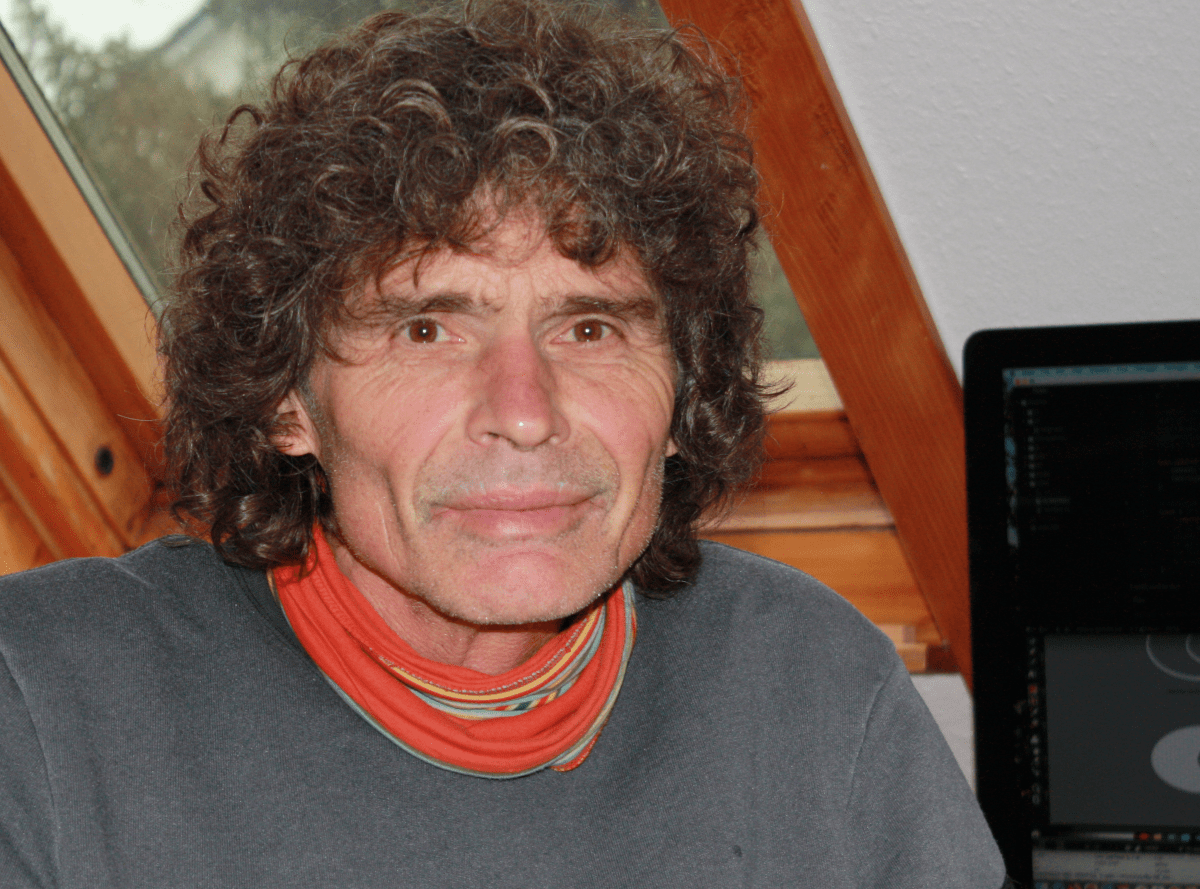
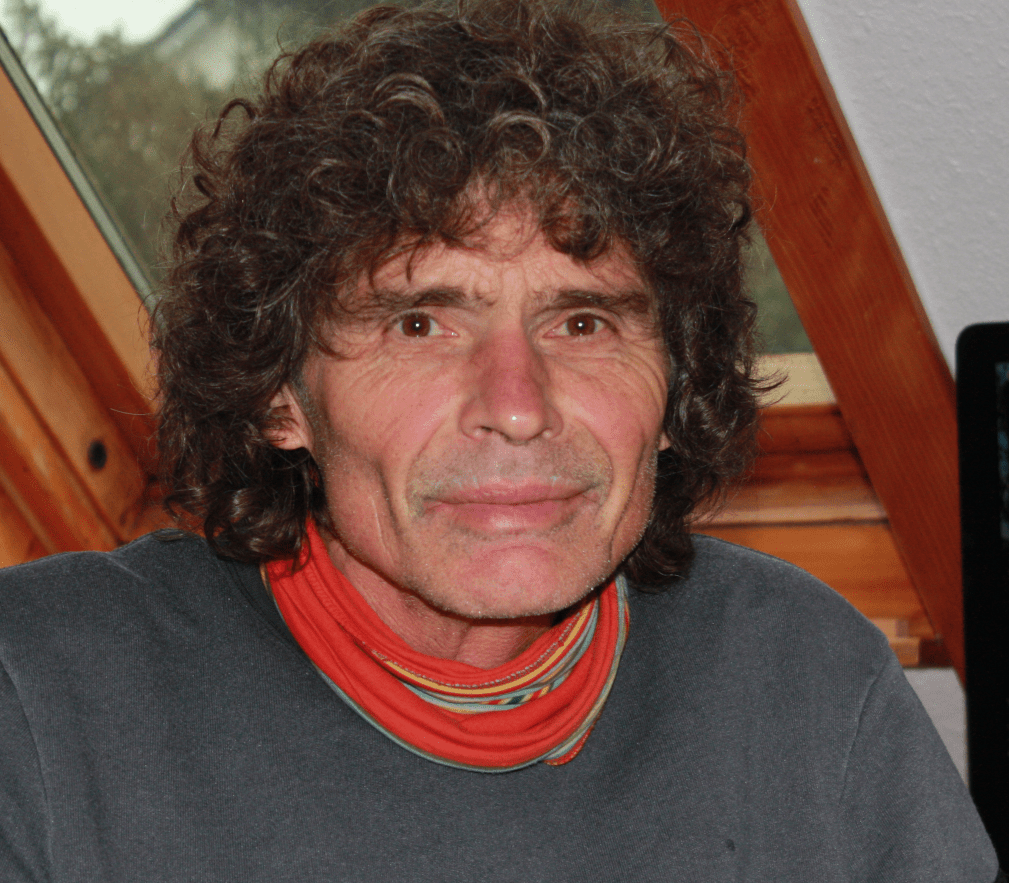
added light gray background color to all projects (to emphasize them and to separate them from text flow); modified slightly the me image (removed part of the screen on the right); put symbol size in a class since it is valid for all symbols; modified first paragraph of section About AGAIN

diff --git a/ibsoftsys/styles/je-ibsoftsys.css b/ibsoftsys/styles/je-ibsoftsys.css
@@ -10,7 +10,7 @@ Inspired by: "Constant text in CSS". https://www.sitepoint.com/community/t/const
 State of mind on August 25, 2021.
 */
 span.updated-on:before {
-    content:'Feb 13 18:05:09 CET 2022';
+    content:'Feb 14 19:06:30 CET 2022';
     font-size: inherit;
 }
 
@@ -341,6 +341,11 @@ h1, h2, h3, h4, h5, h6 {
   min-height:  55%;
 } */
 
+.symbol-size {
+    width: auto;  /* measurements of all symbols so they appear similar ... */
+    height: 230px;  /* ... in size. State of mind on February 14, 2022 */
+}
+
 /* iPhone plus AI Card Player screenshot */
 .symbol-smartphone-app {
     display: block;
@@ -348,9 +353,6 @@ h1, h2, h3, h4, h5, h6 {
     margin-right: auto;
     /* width: auto; */ /* if you set height, width: 100% seems NOT to work on iOS ... it drives me crazy. JE 13Sep21-1441 */
     /*height: 280px;*/ /* Reasoning: image should fit on iPhone 6 screen in landscape mode (367 px) */
-
-    width: auto;  /* measurements so all first four  symbols appear similar ... */
-    height: 240px;  /* ... in size. State of mind on January 27, 2022 */
 
     /* background-color: bisque; */
     /* background-color: #fafafa; */
@@ -364,9 +366,6 @@ h1, h2, h3, h4, h5, h6 {
     margin-right: auto;
     /* width: auto;*/ /* if you set height, width: 100% seems NOT to work on iOS ... it drives me crazy. JE 13Sep21-1441 */
     /*height: 270px; *//* Reasoning: image should fit on iPhone 6 screen in landscape mode (367 px) */
-
-    width: auto; /* measurements so all first four  symbols appear similar ... */
-    height: 240px;  /* ... in size. State of mind on January 27, 2022 */
 
     /* width: 250px; */
     /* max-width: 100%; */
@@ -387,8 +386,8 @@ h1, h2, h3, h4, h5, h6 {
     /* height: 100%; */ /* use 100% instead of auto, because auto seems not to work on iOS for some reason (my iPhone) JE 13Sep21-1437 */
     /* padding: 18px; */
 
-    width: auto; /* measurements so all first four  symbols appear similar ... */
-    height: 240px;  /* ... in size. Needed to reduce height to 250 px so that it fits in iPhone 5/SE (dimension 320 x 568) State of mind on November, 12 2021
+    /*width: auto;*/ /* measurements so all first four  symbols appear similar ... */
+    /*height: 240px; */ /* ... in size. Needed to reduce height to 250 px so that it fits in iPhone 5/SE (dimension 320 x 568) State of mind on November, 12 2021
     UPDATE All heights are now 240px. State of mind on January 27, 2022 */
 
     /* background-color: #fafafa; */
@@ -401,11 +400,6 @@ h1, h2, h3, h4, h5, h6 {
     margin-left: auto;
     margin-right: auto;
 
-    width: auto; /* measurements so all first four  symbols appear similar ... */
-    height: 240px;  /* ... in size. State of mind on January 27, 2022. */
-    /* background-color: bisque; */
-    /* background-color: #fafafa; */
-
     /* box-shadow: 0px 8px 16px 0 rgb(0 0 0 / 20%); */
 }
 
@@ -413,9 +407,6 @@ h1, h2, h3, h4, h5, h6 {
     display: block;
     margin-left: auto;
     margin-right: auto;
-
-    width: auto;/* measurements so all first four  symbols appear similar ... */
-    height: 240px; /* ... in size. State of mind on January 27, 2022. */
 
     /* background-color: #fafafa; */
 
@@ -430,8 +421,10 @@ h1, h2, h3, h4, h5, h6 {
 
   margin-left: auto;  /* allign row ... */
   margin-right: auto; /* ... horizontally */
+}
 
-  background-color: rgb(251, 251, 251); /* EXPERIMENT I think it looks not bad if the projects especially the images have a little different background than the text, actually there is in this part of the section no text at all (the background should spread all to the left and right side on bigger screens, which is fortunately given by design (spreads only to the boundary of flex-container)). And the projects need special attention which they get by the different background, aren't they? State of mind on February 13, 2022.*/
+.projects-background {
+    background-color: rgb(250, 250, 250); /* EXPERIMENT I think it looks not bad if the projects especially the images have a little different background than the text, actually there is in this part of the section no text at all (the background should spread all to the left and right side on bigger screens, which is fortunately given by design (spreads only to the boundary of flex-container)). And the projects need special attention which they get by the different background, aren't they? State of mind on February 13, 2022.*/
 }
 
 .flex-item {
@@ -458,10 +451,6 @@ h1, h2, h3, h4, h5, h6 {
 
 .flex-container-bottom {
     max-width: 36em; /* as wide as paragraph */
-}
-
-.flex-item-bottom {
-
 }
 
 .box {
@@ -676,7 +665,7 @@ p.ibsoftsys-slogan {
 
 .section-intro {
     padding-top: 32px;
-    padding-bottom: 32px;
+    padding-bottom: 18px;
     padding-left: 32px;
     padding-right: 32px;
 
@@ -685,7 +674,7 @@ p.ibsoftsys-slogan {
 }
 
 .image-plus-text {
-    max-width: 70em;  /* So that image sticks out of the text if there is space but not too far away from the text (1 or 2 em maybe) ony very wide sreens (assume (1) image floats to to the left relativ to text; (2) text is limited to max-width: 36em). Looks better apart from the fact that it seems more popular or common. The unit 'em' is sub-optimal because the distance to text becaomes too wide when user uses hige font-sizes AND the screen is very wide. Thus, it is not perfect but I leave it with flaw for now. State of mind on February 12, 2022. */
+    max-width: 1280px;  /* So that image sticks out of the text if there is space to the left ony wide screens, but not too far away from the text (maybe 18px)  (assume (1) image floats to to the left relativ to text; (2) text is limited to max-width: 36em). It looks better as image is embedded in the text statically. I saw this kind of style on other webpages, where the image of the person is out of the text on the left side. State of mind on February 14, 2022. */
 
     margin-right: auto;
     margin-left: auto;
@@ -698,7 +687,7 @@ p.ibsoftsys-slogan {
 #identity-card {
     position: relative;
     float: left;
-    width: 240px;  /* WITH Snoopy: 290px ? */ /* 240px gives the text (assume font-size = 14px) some space to the right and left */
+    width: 230px;  /* WITH Snoopy: 290px ? */ /* 240px gives the text (assume font-size = 14px) some space to the right and left */
     height: 265px; /* WITH only me: 265px; WITH Snoopy: 305px*/
 
     overflow: hidden;
@@ -706,7 +695,7 @@ p.ibsoftsys-slogan {
     margin-top: 0.4em; /* allighs approximately with text */
     margin-left: 24px; /* keep space to text (if floating to the right) */
     margin-right: 16px;
-    margin-bottom: 16px;
+    margin-bottom: 12px;
 
     box-shadow: 0 4px 8px 0 rgb(0 0 0 / 10%);
 
@@ -726,14 +715,20 @@ p.ibsoftsys-slogan {
 
 .identity-card-text {
   position: relative;
-  top: 180px; /* WITH only me: 180px; WITH Snoopy: 229px */
-  height: 60px;
+  top: 185px; /* WITH only me: 180px; WITH Snoopy: 229px */
+  height: 65px;
   width: inherit;
   /* padding: 8px 0px 8px 0px; */
   background-color: rgb(250, 250, 250);
   margin-top: 16px;
   border-bottom-right-radius: inherit;
   border-bottom-left-radius: inherit;
+}
+
+.identity-card-text p {
+    font-size: 16px;
+    padding-top: 8px;
+    padding-bottom: 0;
 }
 
 #identity-card img {
@@ -1249,17 +1244,4 @@ State of mind on August 25, 2021.
         margin-left: auto;  /* center image (no text around) */
         margin-right: auto;
     }
-}
-
-@media only screen and (max-width: 350px) {  /* value determined by experiment to avoid words only on the right of the image */
-    /* NOTE:  ALL VALUES very experimental! */
-    #identity-card  {  /* reduce size of card because it exceeds screen soon */
-        width:250px;
-        height:263px; */ keep proportion of original size (w/h = w=290px/305px) */
-    }
-
-    .identity-card-text { /* ... need to adjust position of text, too */
-      height: 57px;
-      top: 180px; /* approximately: old value minus (new height - old height) of card */
-  }
 }

diff --git a/ibsoftsys/index.html b/ibsoftsys/index.html
@@ -157,7 +157,7 @@
             </div> -->
 
 
-            <p>Willkommen! Mein Name ist Jürgen Ehret. Das <em>Ingenieurbüro für Soft&shy;ware&shy;sys&shy;teme</em> bietet Ihnen individuelle, maßgeschneiderte Softwareentwicklung für Ihr Projekt, die auf meiner internationalen Erfahrung und Expertise basiert.</p>
+            <p>Willkommen! Mein Name ist Jürgen Ehret. Das <em>Ingenieurbüro für Soft&shy;ware&shy;sys&shy;teme</em> bietet Ihnen individuelle, maßgeschneiderte Entwicklungsunterstützung für Ihre Softwareprojekte, die auf meiner internationalen Erfahrung und Expertise basiert.</p>
 
 
             <!--
@@ -189,8 +189,8 @@
                 <div class="identity-card-text">
                     <!-- Increased contrast between name, title, and background. August 23, 2021 -->
                     <!-- CHANGED font-size in px to avoid too big letters that do not fit in image frame (fixed width!). JE 07Oct21.  -->
-                    <p style="font-size: 16px; padding-top: 4px; padding-bottom: 4px;">Dr.-Ing. Jürgen Ehret<br>
-                    <span style="font-size: 16px; color: #777; ;">Software Engineer & Founder</span></p>
+                    <p>Dr.-Ing. Jürgen Ehret<br>
+                    <span style=" color: #777;">Software Engineer & Founder</span></p>
                 </div>
             </div>
 
@@ -289,7 +289,7 @@
   -->
 
 
-  <div class="flex-container">
+  <div class="flex-container projects-background">
       <!-- BEGIN Section I --------->
       <div class='flex-item'>
           <div class="projects-section-frame" >
@@ -304,7 +304,7 @@
               <p> Or show only one image that displays a screenshot of the created app plus a concise statement of the accomplishment. That's it. </p> -->
               <div class="box">
                   <!-- <div class="slogan"><p>Vision...</p><p>Implementierung.</p></div> -->
-                  <img onclick="overlayOn(1)" style="cursor: pointer;" class="symbol-smartphone-app" src="media/images/symbol-smartphone-app-min.png" alt="Symbol of Smartphone App" >
+                  <img onclick="overlayOn(1)" style="cursor: pointer;" class="symbol-smartphone-app symbol-size" src="media/images/symbol-smartphone-app-min.png" alt="Symbol of Smartphone App" >
               </div>
 
               <div class="overlay" id="overlay-1">
@@ -366,7 +366,7 @@
 
               <div class="box">
                   <!-- <div class="slogan"><p>Vision...</p><p>Implementierung.</p></div> -->
-                  <img onclick="overlayOn(2)" style="cursor: pointer;" class="symbol-find-contact-details" src="media/images/symbol-find-contact-details-de-min.png" alt="Symbol of Search for Contacts" >
+                  <img onclick="overlayOn(2)" style="cursor: pointer;" class="symbol-find-contact-details symbol-size" src="media/images/symbol-find-contact-details-de-min.png" alt="Symbol of Search for Contacts" >
               </div>
 
 
@@ -418,7 +418,7 @@
   </div>  <!-- flex-container -->
 
 
-  <div class="flex-container">
+  <div class="flex-container projects-background">
       <!-- BEGIN Section III --------->
       <div class='flex-item'>
           <div class="projects-section-frame">
@@ -427,7 +427,7 @@
               <!-- <p><b>Modell vernetzter Steuergeräte</b> Network of ECUs? How to symbolize it? Or should I use some other symbol/graphical representation? What about text?</p> -->
               <div class="box">
                   <!-- <div class="slogan"><p>Vision...</p><p>Implementierung.</p></div> -->
-                  <img onclick="overlayOn(3)" style="cursor: pointer;" class="symbol-model-of-distributed" src="media/images/symbol-model-of-distributed-min.svg" alt="Symbol of Model of Distributed Systems" >
+                  <img onclick="overlayOn(3)" style="cursor: pointer;" class="symbol-model-of-distributed symbol-size" src="media/images/symbol-model-of-distributed-min.svg" alt="Symbol of Model of Distributed Systems" >
               </div>
 
               <div class="overlay" id="overlay-3">
@@ -481,7 +481,7 @@
               <p>Maybe a kind of examination you will see at the doctor's office could symbolise the examination. A stethoscope around a computer will do it. You will find inspiration on the web for sure. Have fun design it with <b>Inkscape</b>! </p> -->
               <div class="box">
                   <!-- <div class="slogan"><p>Vision...</p><p>Implementierung.</p></div> -->
-                  <img onclick="overlayOn(4)" style="cursor: pointer;" class="symbol-test-software" src="media/images/symbol-test-software-min.png" alt="Symbol of Test Software Systems">
+                  <img onclick="overlayOn(4)" style="cursor: pointer;" class="symbol-test-software symbol-size" src="media/images/symbol-test-software-min.png" alt="Symbol of Test Software Systems">
               </div>
 
               <div class="overlay" id="overlay-4">
@@ -525,7 +525,7 @@
       </div> <!-- flex-item -->
   </div>  <!-- flex-container -->
 
-  <div class="flex-container">
+  <div class="flex-container projects-background">
       <!-- BEGIN Section V --------->
       <div class='flex-item'>
           <div class="projects-section-frame">
@@ -539,7 +539,7 @@
                   <!-- <div class="slogan"><p>Vision...</p><p>Implementierung.</p></div> -->
                   <!-- <img class="symbol-develop-safety-critical" src="media/images/symbol-develop-safety-critical-new-2.png" alt="Symbol of Develop Safety-Critical Systems"> -->
 
-                  <img onclick="overlayOn(5)" style="cursor: pointer;" class="symbol-develop-safety-critical" src="media/images/symbol-develop-safety-critical-min.svg" alt="Symbol Crash Test Dummy">
+                  <img onclick="overlayOn(5)" style="cursor: pointer;" class="symbol-develop-safety-critical symbol-size" src="media/images/symbol-develop-safety-critical-min.svg" alt="Symbol Crash Test Dummy">
               </div>
 
               <div class="overlay" id="overlay-5">

diff --git a/ibsoftsys/en/index.html b/ibsoftsys/en/index.html
@@ -137,7 +137,7 @@
         <!-- 21Aug2021 10:42 <br><img src="media/images/me-sun.png" class="w3-card-4 w3-round-large w3-image w3-hover-opacity-off" alt="Photo of Me" width="300">
         <p class="w3-margin-right w3-small">Dr.-Ing. Jürgen Ehret</p> -->
         <div class="image-plus-text">
-            <p>Welcome! My name is Jürgen Ehret. <em>Engineering of Software Systems</em> offers you individual, tailor-made software development for your project, which is based on my international experience and expertise.</p>
+            <p>Welcome! My name is Jürgen Ehret. <em>Engineering of Software Systems</em> offers you individual, tailor-made development support for your software projects, which is based on my international experience and expertise.</p>
 
             <!-- <p style="font-size: 16px; color: #AD1737;">Welcome! My name is Jürgen Ehret, born and raised in Freiburg, studied electrical engineering in Karlsruhe, gained extensive experience as a software engineer in Munich and in Silicon Valley, now back from the USA I founded the engineering office for software systems in Freiburg.</p> -->
 
@@ -147,8 +147,8 @@
                 <div class="identity-card-text">
                     <!-- Increased contrast between name, title, and background. August 23, 2021 -->
                     <!-- CHANGED font-size in px to avoid too big letters that do not fit in image frame (fixed width!). JE 07Oct21.  -->
-                    <p style="font-size: 16px;padding-top: 4px; padding-bottom: 4px;">Dr.-Ing. Jürgen Ehret<br>
-                    <span style="font-size: 16px; color: #777; ;">Software Engineer & Founder</span></p>
+                    <p>Dr.-Ing. Jürgen Ehret<br>
+                    <span style="color: #777;">Software Engineer & Founder</span></p>
                 </div>
             </div>
 
@@ -201,7 +201,7 @@
   </div>
 </div>
 
-  <div class="flex-container">
+  <div class="flex-container projects-background">
       <!-- BEGIN Section I -------->
       <div class='flex-item'>
           <div class="projects-section-frame" >
@@ -210,7 +210,7 @@
 
               <div class="box">
                   <!-- <div class="slogan"><p>Vision...</p><p>Implementierung.</p></div> -->
-                  <img onclick="overlayOn(1)" style="cursor: pointer;" class="symbol-smartphone-app" src="../media/images/symbol-smartphone-app-min.png" alt="Symbol of Smartphone App" >
+                  <img onclick="overlayOn(1)" style="cursor: pointer;" class="symbol-smartphone-app symbol-size" src="../media/images/symbol-smartphone-app-min.png" alt="Symbol of Smartphone App" >
               </div>
 
               <div class="overlay" id="overlay-1">
@@ -266,7 +266,7 @@
 
               <div class="box">
                   <!-- <div class="slogan"><p>Vision...</p><p>Implementierung.</p></div> -->
-                  <img onclick="overlayOn(2)" style="cursor: pointer;" class="symbol-find-contact-details" src="../media/images/symbol-find-contact-details-en-min.png" alt="Symbol of Search for Contacts" >
+                  <img onclick="overlayOn(2)" style="cursor: pointer;" class="symbol-find-contact-details symbol-size" src="../media/images/symbol-find-contact-details-en-min.png" alt="Symbol of Search for Contacts" >
               </div>
 
 
@@ -316,7 +316,7 @@
       <!-- END Section II-->
   </div>  <!-- flex-container -->
 
-  <div class="flex-container">
+  <div class="flex-container projects-background">
       <!-- BEGIN Section III --------->
       <div class='flex-item'>
           <div class="projects-section-frame">
@@ -325,7 +325,7 @@
 
               <div class="box">
                   <!-- <div class="slogan"><p>Vision...</p><p>Implementierung.</p></div> -->
-                  <img onclick="overlayOn(3)" style="cursor: pointer;" class="symbol-model-of-distributed" src="../media/images/symbol-model-of-distributed-min.svg" alt="Symbol of Model of Distributed Systems" >
+                  <img onclick="overlayOn(3)" style="cursor: pointer;" class="symbol-model-of-distributed symbol-size" src="../media/images/symbol-model-of-distributed-min.svg" alt="Symbol of Model of Distributed Systems" >
               </div>
 
               <div class="overlay" id="overlay-3">
@@ -376,7 +376,7 @@
 
               <div class="box">
                   <!-- <div class="slogan"><p>Vision...</p><p>Implementierung.</p></div> -->
-                  <img onclick="overlayOn(4)" style="cursor: pointer;" class="symbol-test-software" src="../media/images/symbol-test-software-min.png" alt="Symbol of Test Software Systems">
+                  <img onclick="overlayOn(4)" style="cursor: pointer;" class="symbol-test-software symbol-size" src="../media/images/symbol-test-software-min.png" alt="Symbol of Test Software Systems">
               </div>
 
               <div class="overlay" id="overlay-4">
@@ -420,7 +420,7 @@
       </div> <!-- flex-item -->
   </div>  <!-- flex-container -->
 
-<div class="flex-container">
+<div class="flex-container projects-background">
     <!-- BEGIN Section V --------->
     <div class='flex-item'>
         <div class="projects-section-frame">
@@ -433,7 +433,7 @@
 
                 <!-- <img onclick="overlayOn(5)" style="cursor: pointer;" class="symbol-wanted" src="../media/images/symbol-wanted.svg" alt="Symbol Wanted"> -->
 
-                 <img onclick="overlayOn(5)" style="cursor: pointer;" class="symbol-develop-safety-critical" src="../media/images/symbol-develop-safety-critical-min.svg" alt="Symbol Crash Test Dummy">
+                 <img onclick="overlayOn(5)" style="cursor: pointer;" class="symbol-develop-safety-critical symbol-size" src="../media/images/symbol-develop-safety-critical-min.svg" alt="Symbol Crash Test Dummy">
             </div>
 
             <div class="overlay" id="overlay-5">
